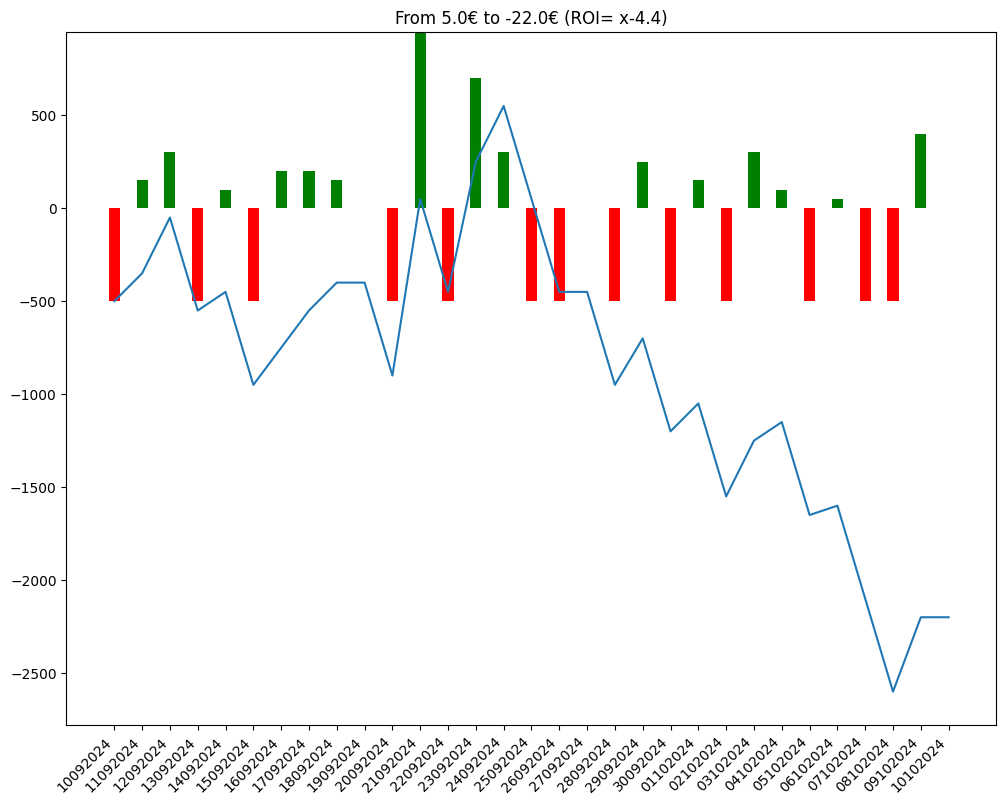
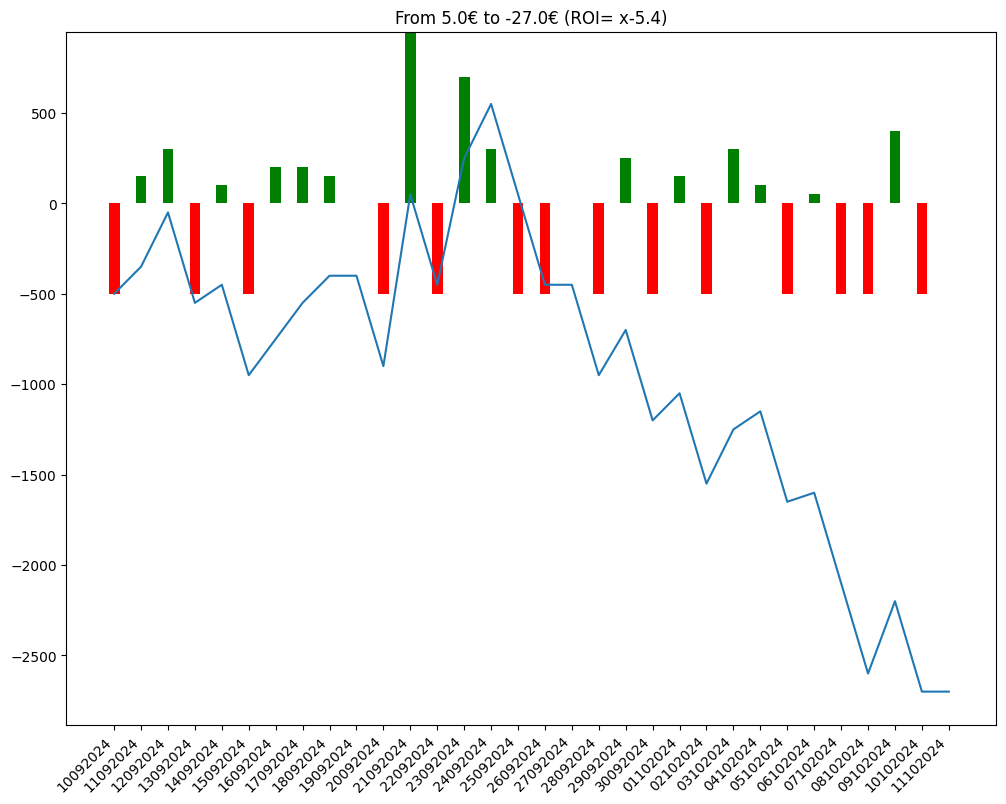
comment from python script

diff --git a/bethistory.html b/bethistory.html
@@ -86,7 +86,8 @@
             En observant la courbe 🤔, on peut avoir une idée visuelle de l'évolution des gains et ainsi évaluer le model utilisé 🧑🏫.
         </p>
         
-        <img src = "/candle.png" alt="candle chart"/><table><tr><td>Chevaux joués</td><td>Gains</td><td>URL Circuits</td></tr><tr><td>3 - YOUNG AND PROUD</td><td>0</td><td><a href=https://www.pmu.fr/turf/10102024/r1/c4 target="_blank">https://www.pmu.fr/turf/10102024/r1/c4</a></td></tr>
+        <img src = "/candle.png" alt="candle chart"/><table><tr><td>Chevaux joués</td><td>Gains</td><td>URL Circuits</td></tr><tr><td>4 - LINO</td><td>0</td><td><a href=https://www.pmu.fr/turf/11102024/r5/c9 target="_blank">https://www.pmu.fr/turf/11102024/r5/c9</a></td></tr>
+<tr><td>3 - YOUNG AND PROUD</td><td>-500</td><td><a href=https://www.pmu.fr/turf/10102024/r1/c4 target="_blank">https://www.pmu.fr/turf/10102024/r1/c4</a></td></tr>
 <tr><td>7 - MISS SUPERNOVA</td><td>+400</td><td><a href=https://www.pmu.fr/turf/09102024/r3/c2 target="_blank">https://www.pmu.fr/turf/09102024/r3/c2</a></td></tr>
 <tr><td>3 - PARTICULIERE DREAM</td><td>-500</td><td><a href=https://www.pmu.fr/turf/08102024/r5/c3 target="_blank">https://www.pmu.fr/turf/08102024/r5/c3</a></td></tr>
 <tr><td>9 - BARBELCHEN</td><td>-500</td><td><a href=https://www.pmu.fr/turf/07102024/r4/c8 target="_blank">https://www.pmu.fr/turf/07102024/r4/c8</a></td></tr>
